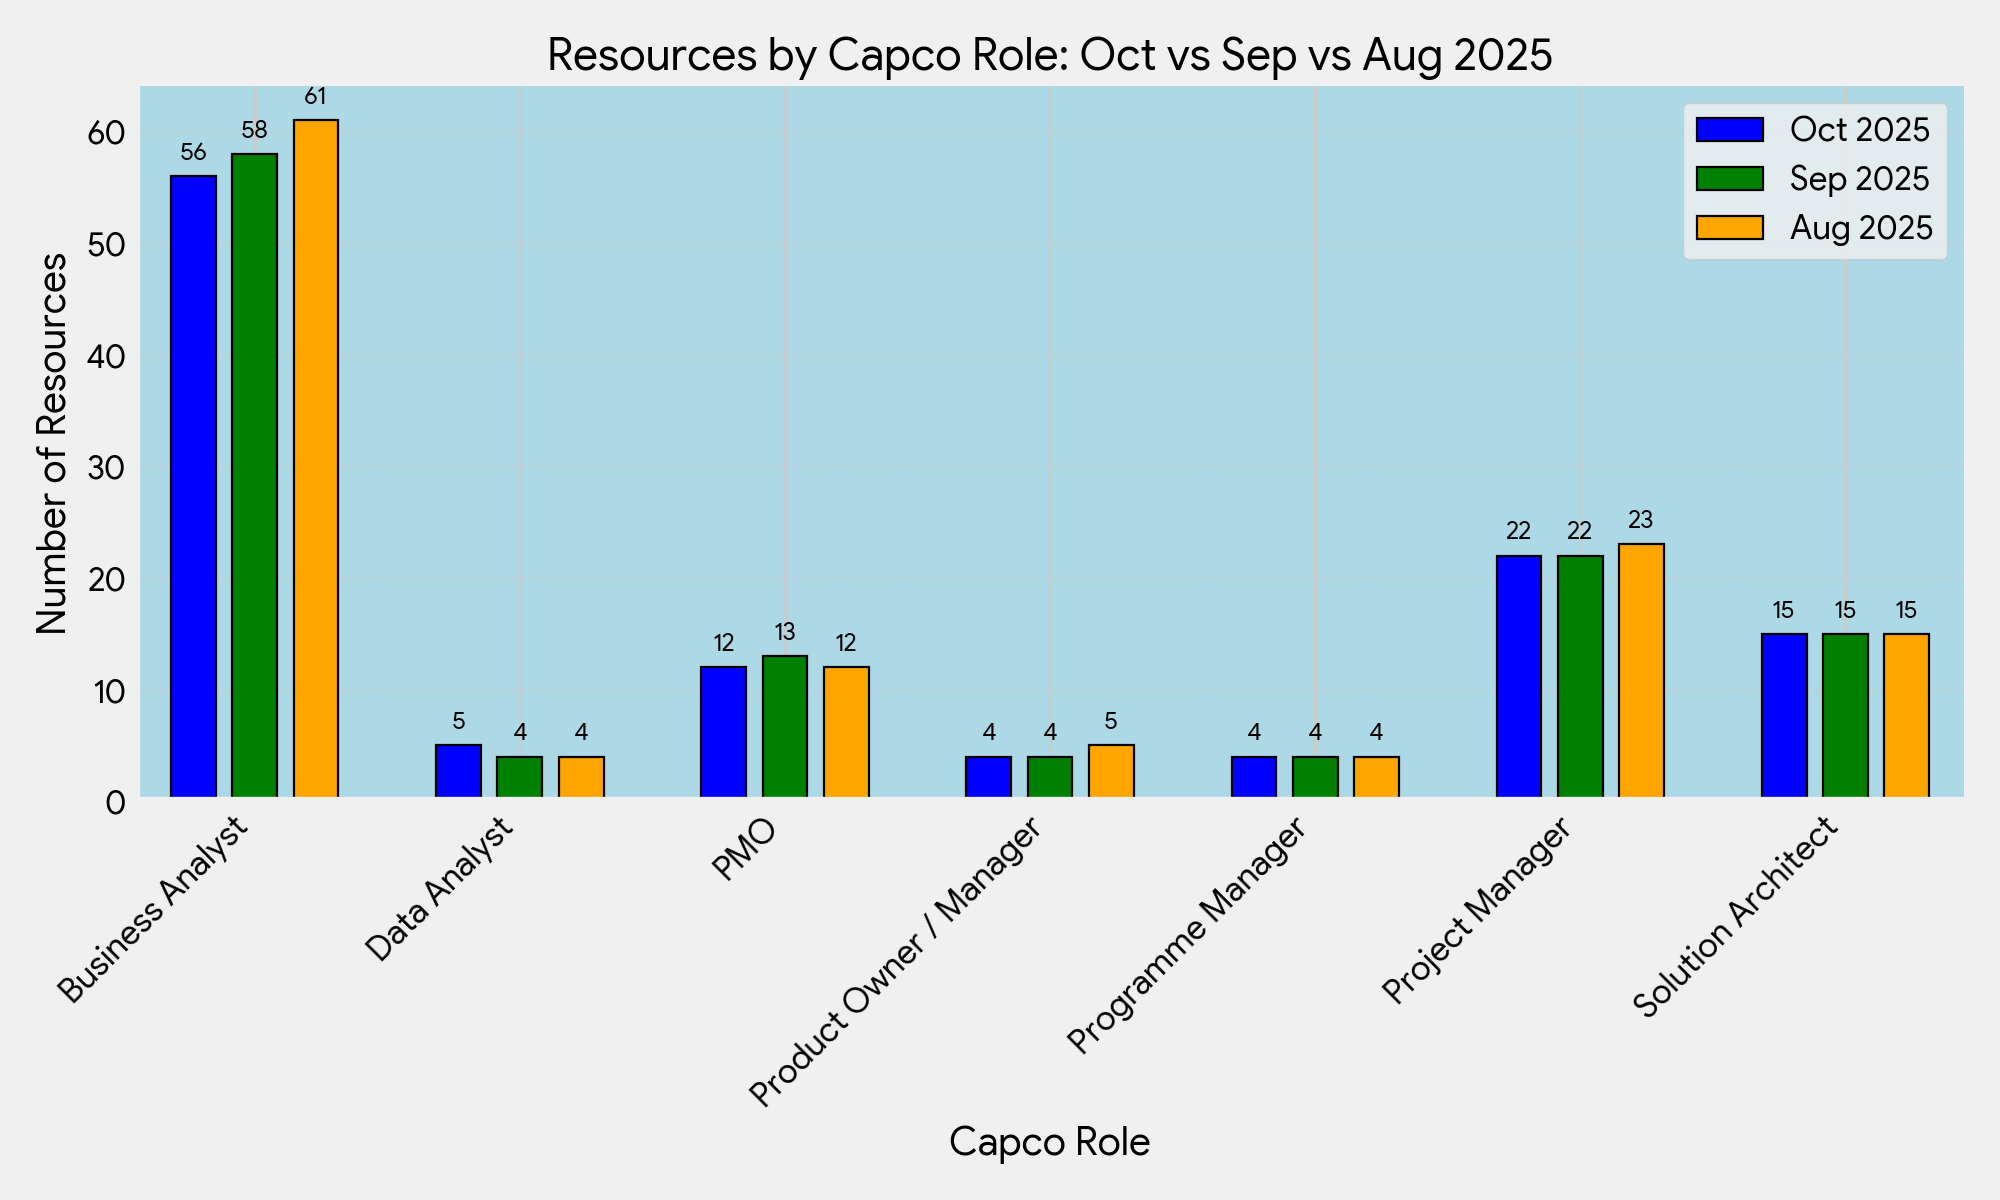
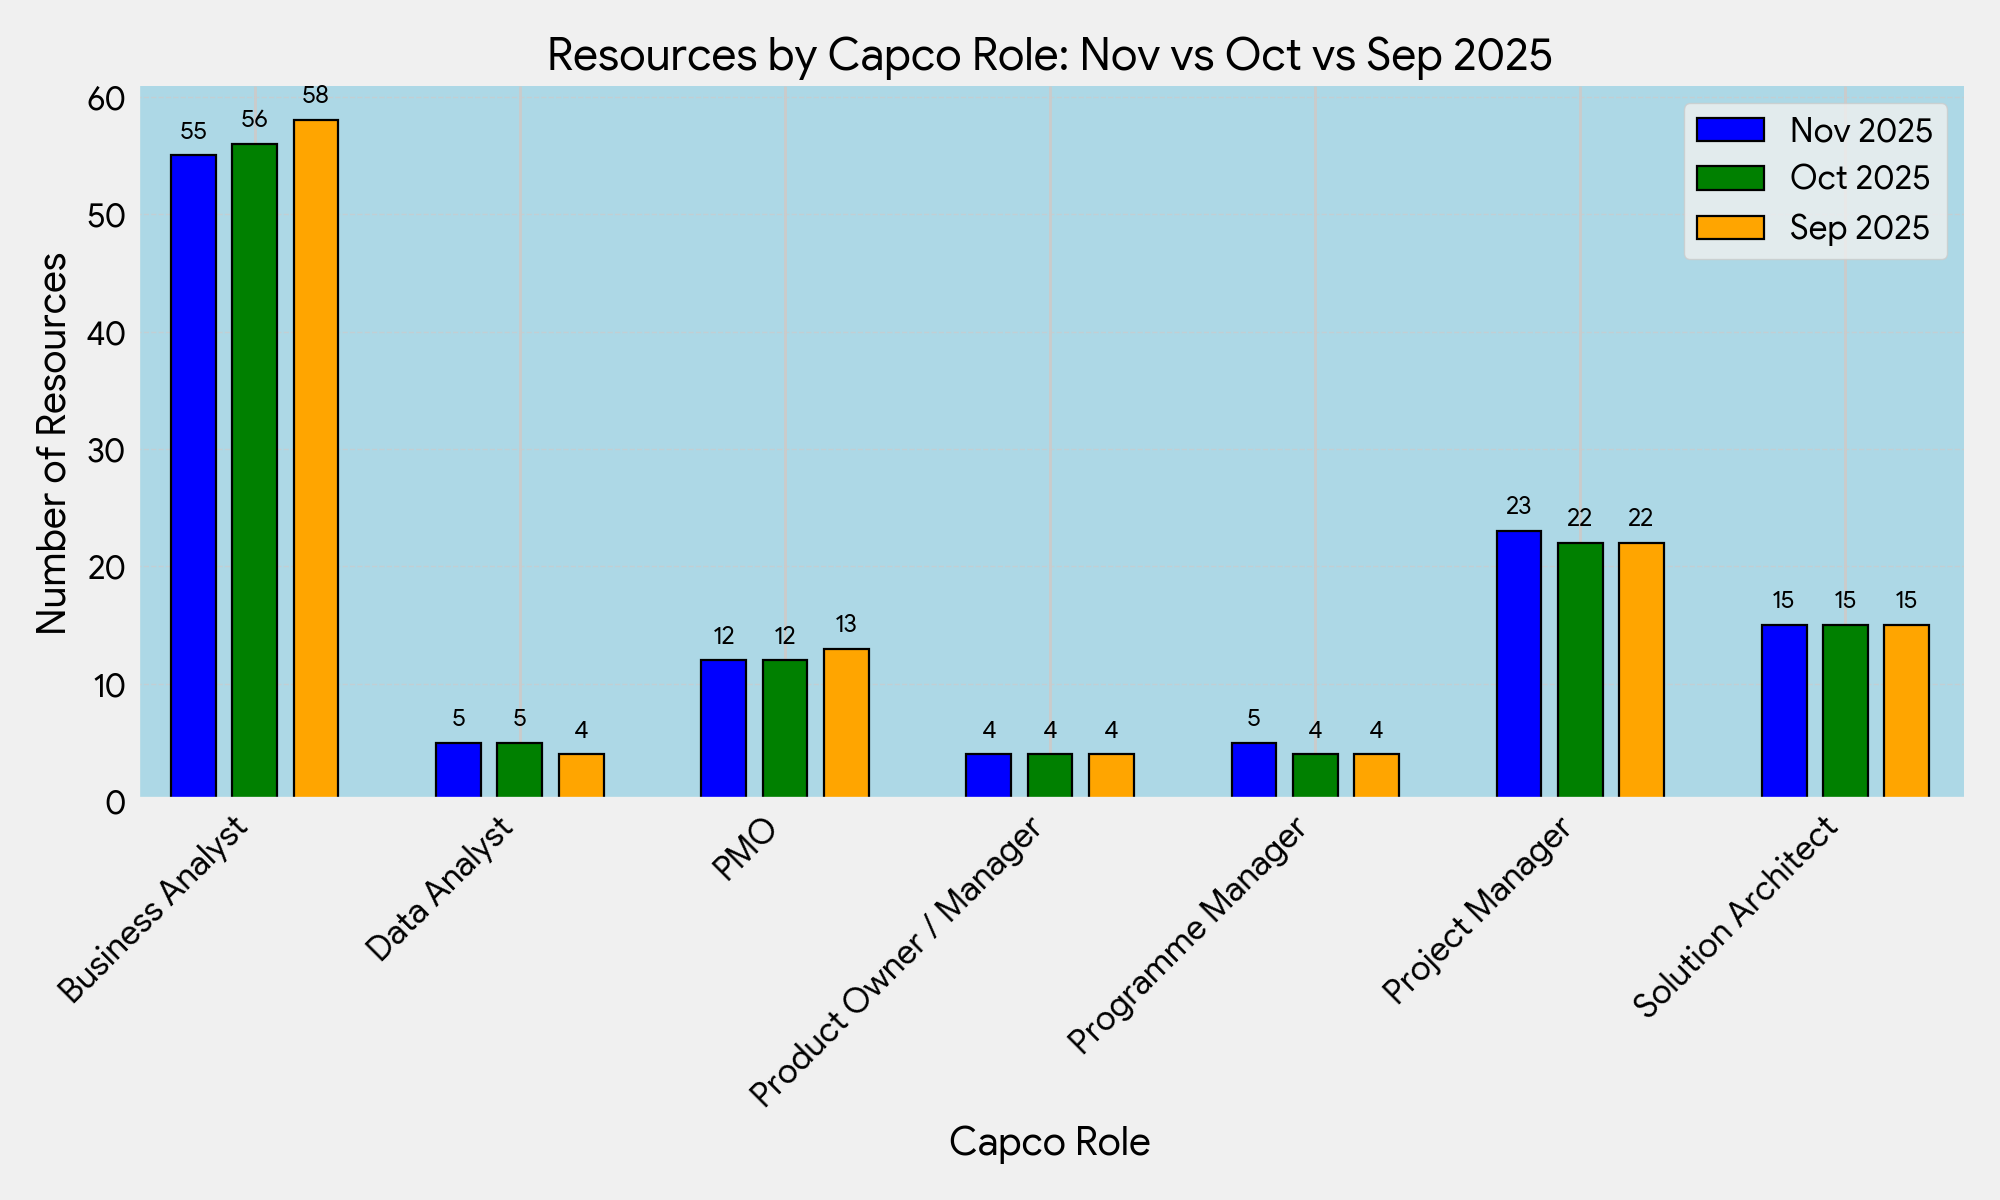
updated for november

diff --git a/plotter.py b/plotter.py
@@ -1,0 +1,101 @@
+import os
+import numpy as np
+import matplotlib.pyplot as plt
+import config
+
+def setup_style():
+    """Sets up the matplotlib style."""
+    plt.style.use(config.STYLE)
+    plt.rc("font", family=config.FONT_FAMILY, size=config.FONT_SIZE)
+
+def plot_total_on_account(df_nov, df_oct, df_sep):
+    """Plots the Total Consulting Resources on Account."""
+    total_nov = len(df_nov)
+    total_oct = len(df_oct)
+    total_sep = len(df_sep)
+
+    labels = ["Nov 2025", "Oct 2025", "Sep 2025"]
+    vals   = [total_nov, total_oct, total_sep]
+
+    fig, ax = plt.subplots(figsize=(6, 4))
+    ax.set_facecolor(config.FACE_COLOUR)
+    ax.bar(labels, vals, color=["blue", "green", "orange"], edgecolor="k", linewidth=0.8)
+    ax.set_title("Total Consulting Resources on Account")
+    ax.set_xlabel("Month")
+    ax.set_ylabel("Number of Resources")
+    for xcat, val in zip(labels, vals):
+        ax.text(xcat, val + 1, str(val), ha="center", va="bottom")
+    plt.tight_layout()
+    
+    output_path = os.path.join(config.OUTPUT_DIR, "Total_on_account.png")
+    plt.savefig(output_path, dpi=200)
+    plt.close(fig)
+
+def plot_grouped_comparisons(df_nov, df_oct, df_sep):
+    """Plots grouped comparisons for various categories."""
+    for label, col in config.CATEGORIES.items():
+        # Count per month (exclude NA)
+        counts_nov = df_nov[col].dropna().value_counts()
+        counts_oct = df_oct[col].dropna().value_counts()
+        counts_sep = df_sep[col].dropna().value_counts()
+
+        # For Project/Programme, take a stable Top-5 across ALL months combined
+        if label == "Project Programme":
+            all_counts = counts_nov.add(counts_oct, fill_value=0).add(counts_sep, fill_value=0)
+            topN = all_counts.sort_values(ascending=False).head(10).index
+            idx = list(topN)
+            counts_nov = counts_nov.reindex(idx, fill_value=0)
+            counts_oct = counts_oct.reindex(idx, fill_value=0)
+            counts_sep = counts_sep.reindex(idx, fill_value=0)
+        else:
+            # Align to the union of categories for the other dimensions
+            idx = sorted(set(counts_nov.index).union(counts_oct.index).union(counts_sep.index))
+            counts_nov = counts_nov.reindex(idx, fill_value=0)
+            counts_oct = counts_oct.reindex(idx, fill_value=0)
+            counts_sep = counts_sep.reindex(idx, fill_value=0)
+
+        # --- spacing controls ---
+        n = 3               
+        bar_width = config.BAR_WIDTH
+        inner_gap = config.INNER_GAP
+        group_gap = config.GROUP_GAP
+        # ------------------------
+
+        x = np.arange(len(idx)) * (1 + group_gap)  # spread groups across the x-axis
+        total_width = n * bar_width + (n - 1) * inner_gap
+        start = x - total_width / 2 + bar_width / 2  # left bar center within each group
+
+        nov_x = start
+        oct_x = start + (bar_width + inner_gap)
+        sep_x = start + 2 * (bar_width + inner_gap)
+
+        # Plot
+        fig, ax = plt.subplots(figsize=(10, 6))
+        ax.set_facecolor(config.FACE_COLOUR)
+        ax.spines["top"].set_visible(False)
+        ax.spines["right"].set_visible(False)
+        ax.yaxis.grid(True, linestyle="--", linewidth=0.5, alpha=0.7)
+        ax.set_axisbelow(True)
+
+        ax.bar(nov_x, counts_nov.values, bar_width, label="Nov 2025", color="blue",   edgecolor="k", linewidth=0.8)
+        ax.bar(oct_x, counts_oct.values, bar_width, label="Oct 2025", color="green",   edgecolor="k", linewidth=0.8)
+        ax.bar(sep_x, counts_sep.values, bar_width, label="Sep 2025", color="orange",  edgecolor="k", linewidth=0.8)
+
+        ax.set_title(f"Resources by {label}: Nov vs Oct vs Sep 2025", fontsize=16)
+        ax.set_xlabel(label, fontsize=14)
+        ax.set_ylabel("Number of Resources", fontsize=14)
+        ax.set_xticks(x)
+        ax.set_xticklabels(idx, rotation=45, ha="right")
+
+        # Label bars at their own centers
+        for cx, series in [(nov_x, counts_nov.values), (oct_x, counts_oct.values), (sep_x, counts_sep.values)]:
+            for xi, yi in zip(cx, series):
+                ax.text(xi, yi + 1, str(int(yi)), ha="center", va="bottom", fontsize=9)
+
+        ax.legend()
+        ax.margins(x=0.02)
+        plt.tight_layout()
+        
+        output_path = os.path.join(config.OUTPUT_DIR, f"{label}.png")
+        plt.savefig(output_path, dpi=200)
+        plt.close(fig)

diff --git a/main.py b/main.py
@@ -1,0 +1,42 @@
+import os
+import config
+import data_loader
+import data_cleaner
+import plotter
+
+def main():
+    # Ensure output folder exists
+    os.makedirs(config.OUTPUT_DIR, exist_ok=True)
+
+    # 1) Locate the Excel file
+    excel_path = data_loader.get_excel_path()
+    print(f"Using Excel file: {excel_path}")
+
+    # 2) Read sheets
+    print("Loading data...")
+    df_nov, df_oct, df_sep = data_loader.load_data(excel_path)
+
+    # 3) Clean data
+    print("Cleaning data...")
+    df_nov, df_oct, df_sep = data_cleaner.clean_dataframes(df_nov, df_oct, df_sep)
+    
+    print(f"Nov records: {len(df_nov)}")
+    print(f"Oct records: {len(df_oct)}")
+    print(f"Sep records: {len(df_sep)}")
+
+    # 4) Plotting
+    print("Generating plots...")
+    plotter.setup_style()
+    plotter.plot_total_on_account(df_nov, df_oct, df_sep)
+    plotter.plot_grouped_comparisons(df_nov, df_oct, df_sep)
+
+    # 5) Sanity check (Optional)
+    target = "Project Rome"
+    print("NOV Project Rome =", (df_nov["Project / Programme"] == target).sum())
+    print("OCT Project Rome =", (df_oct["Project / Programme"] == target).sum())
+    print("SEP Project Rome =", (df_sep["Project / Programme"] == target).sum())
+
+    print("Done! Check the 'outputs' folder.")
+
+if __name__ == "__main__":
+    main()

diff --git a/data_cleaner.py b/data_cleaner.py
@@ -1,0 +1,30 @@
+import pandas as pd
+import config
+
+def clean_col(series: pd.Series) -> pd.Series:
+    """Normalize values for all category columns (trim spaces, collapse multiple spaces)."""
+    # Keep missing values as <NA> (not the string "nan")
+    s = series.astype("string")
+    s = s.str.strip().str.replace(r"\s+", " ", regex=True)
+    return s
+
+def clean_dataframes(df_nov, df_oct, df_sep):
+    """Applies cleaning logic to the dataframes."""
+    
+    # Drop rows with missing 'Resource Full Name'
+    df_nov = df_nov.dropna(subset=['Resource Full Name']).copy()
+    df_oct = df_oct.dropna(subset=['Resource Full Name']).copy()
+    df_sep = df_sep.dropna(subset=['Resource Full Name']).copy()
+
+    # Clean column names
+    df_nov.columns = df_nov.columns.str.strip()
+    df_oct.columns = df_oct.columns.str.strip()
+    df_sep.columns = df_sep.columns.str.strip()
+
+    # Normalize values for category columns
+    for df in (df_nov, df_oct, df_sep):
+        for col in config.CATEGORIES.values():
+            if col in df.columns:
+                df[col] = clean_col(df[col])
+                
+    return df_nov, df_oct, df_sep

diff --git a/data_loader.py b/data_loader.py
@@ -1,0 +1,20 @@
+import os
+import pandas as pd
+import config
+
+def get_excel_path(base_dir="."):
+    """Finds the Excel file in the current directory or defaults to a specific path."""
+    files = [f for f in os.listdir(base_dir) if f.lower().endswith(".xlsx")]
+    if len(files) == 1:
+        return os.path.join(base_dir, files[0])
+    else:
+        # If multiple Excel files exist, specify the filename directly
+        return "~/Downloads/aviva.xlsx"
+
+def load_data(excel_path):
+    """Loads the specific sheets from the Excel file."""
+    df_nov = pd.read_excel(excel_path, sheet_name=config.SHEET_NOV)
+    df_oct = pd.read_excel(excel_path, sheet_name=config.SHEET_OCT)
+    df_sep = pd.read_excel(excel_path, sheet_name=config.SHEET_SEP)
+    
+    return df_nov, df_oct, df_sep

diff --git a/config.py b/config.py
@@ -1,0 +1,28 @@
+
+# Style / look & feel
+FACE_COLOUR = "#ADD8E6"
+STYLE = "fivethirtyeight"
+FONT_FAMILY = "Google Sans"
+FONT_SIZE = 12
+
+# Output directory
+OUTPUT_DIR = "outputs"
+
+# Sheet names
+SHEET_NOV = "DATA_Nov25"
+SHEET_OCT = "DATA-Oct25"
+SHEET_SEP = "Data_SEPT25"
+
+# Column mapping
+CATEGORIES = {
+    "Project Type": "Project Type",
+    "Business Unit": "Business Unit",
+    "Capco Role": "Capco Role",
+    "Capco Location": "Capco Location City",
+    "Project Programme": "Project / Programme",
+}
+
+# Plot settings
+BAR_WIDTH = 0.22
+INNER_GAP = 0.08
+GROUP_GAP = 0.30

diff --git a/dashboard_styled.py b/dashboard_styled.py
@@ -24,7 +24,7 @@ else:
     excel_path = "~/Downloads/aviva.xlsx"
 
 # -----------------------------
-# 2) Read sheets
+# 2) Read sheets, load to data frames and drop rows with missing values
 # -----------------------------
 df_oct = pd.read_excel(excel_path, sheet_name="DATA-Oct25")
 df_sep = pd.read_excel(excel_path, sheet_name="Data_SEPT25")
